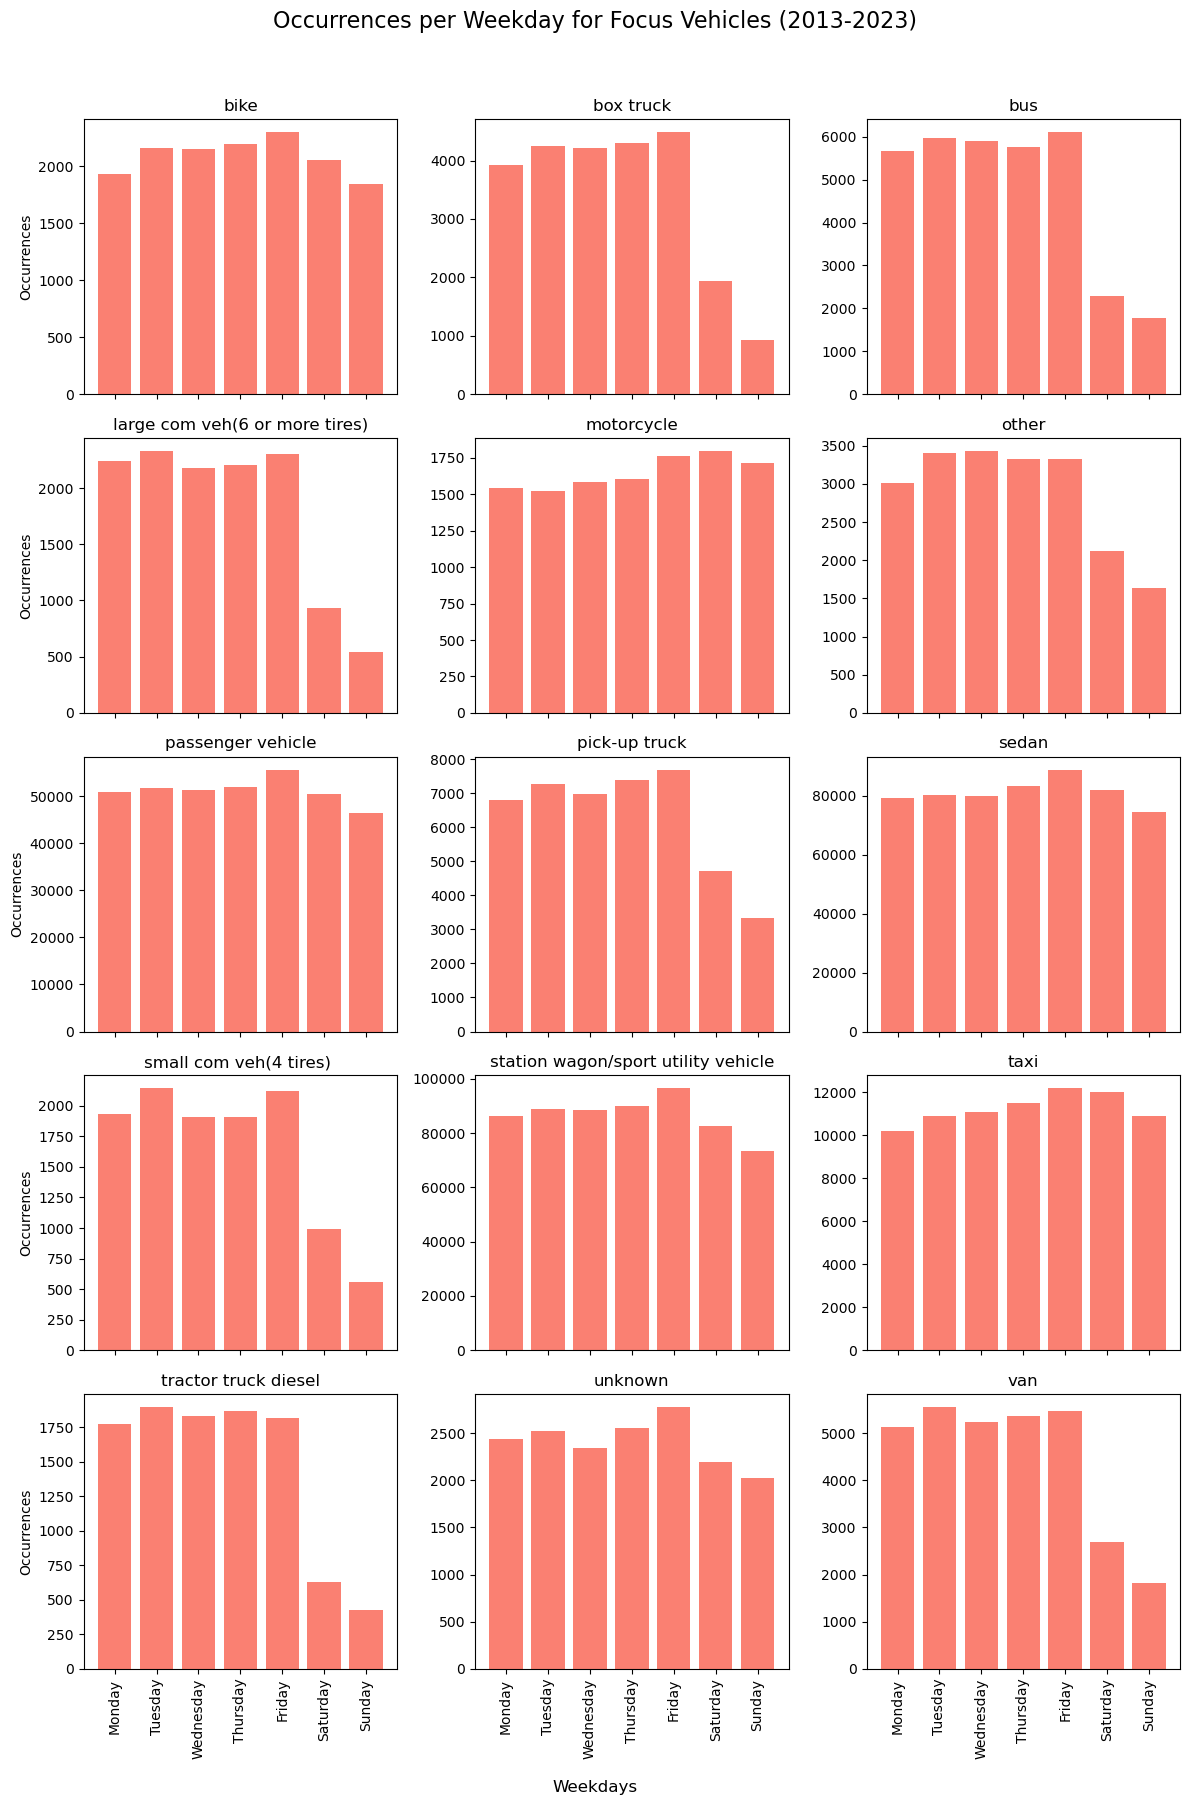
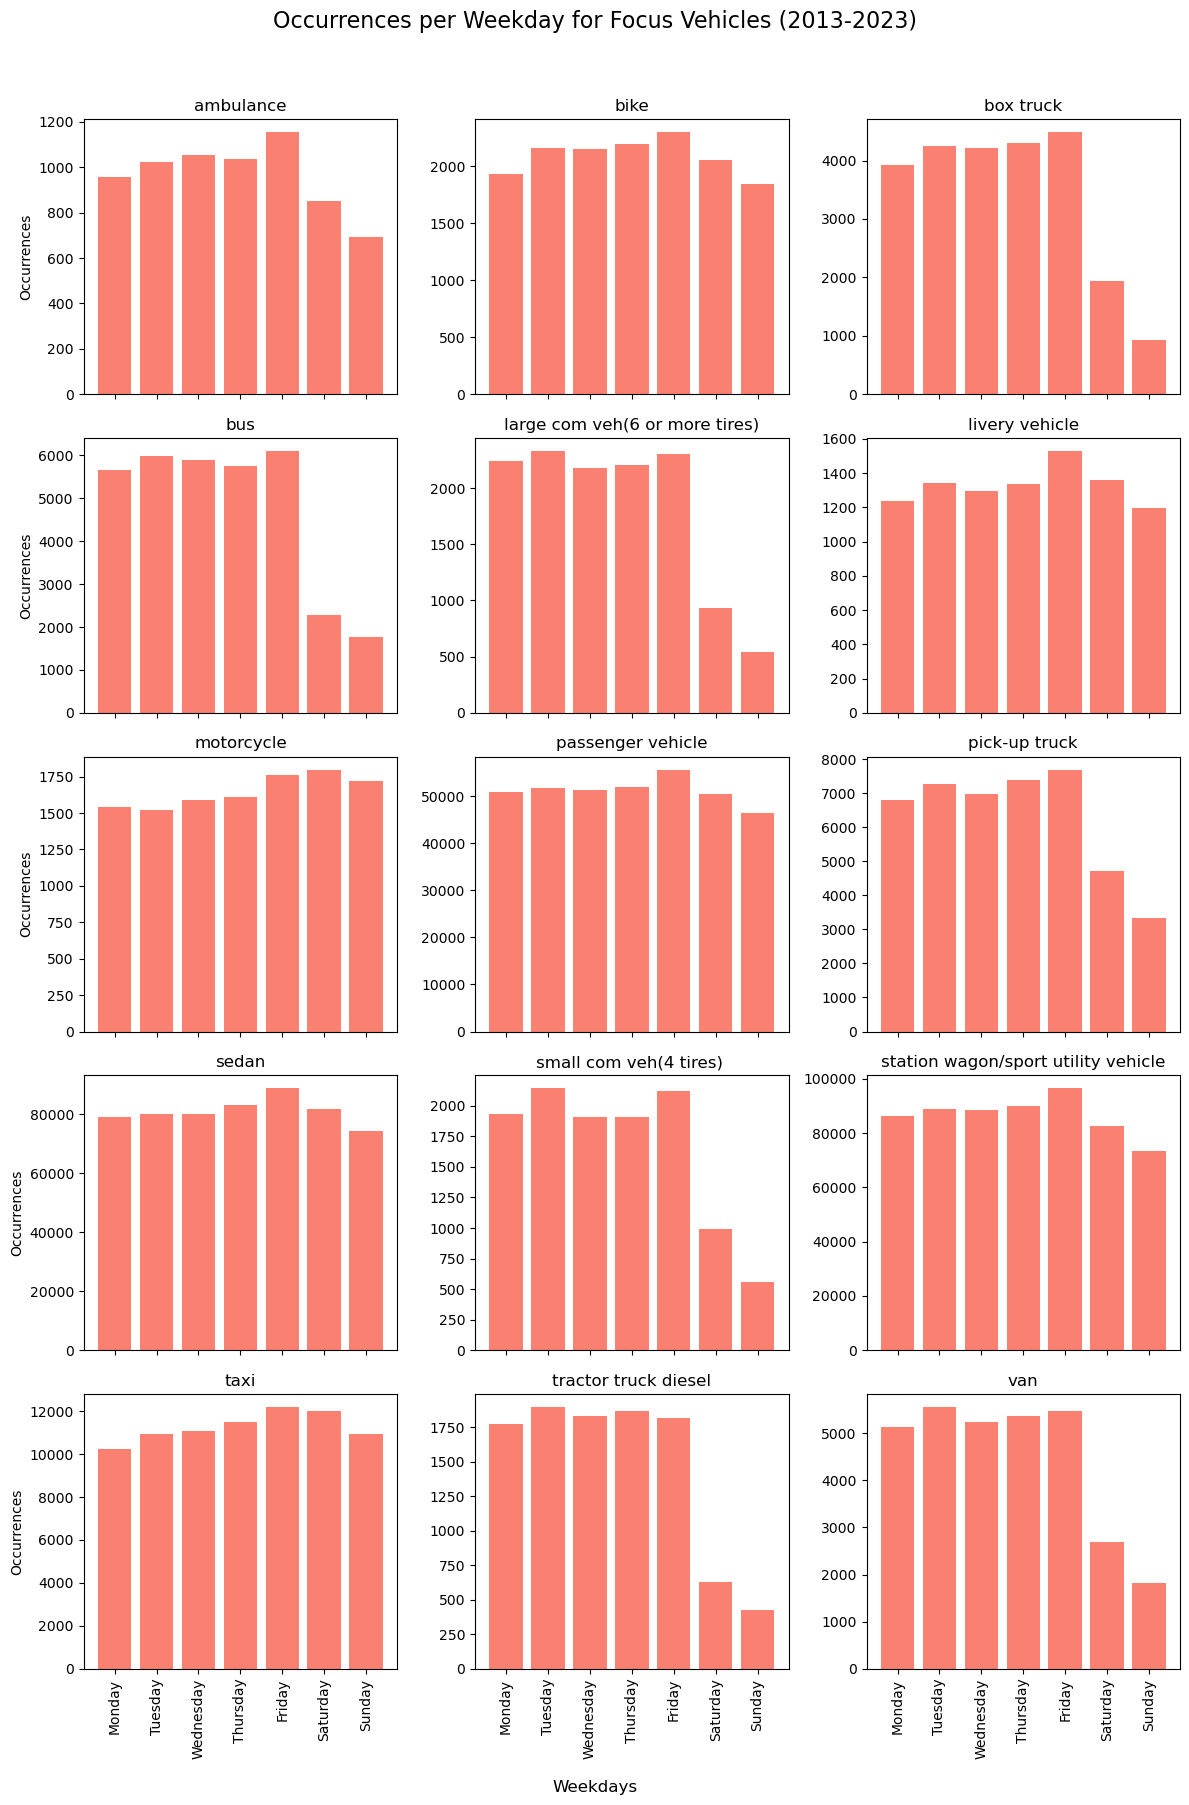
woopy

diff --git a/Final_Project/focus_vehicles.py b/Final_Project/focus_vehicles.py
@@ -4,10 +4,12 @@ from Exploratory import *
 
 # %%#%%Car type counts:
 df.loc[df['VEHICLE TYPE CODE 1'] == 'sport utility / station wagon', 'VEHICLE TYPE CODE 1'] = 'station wagon/sport utility vehicle'
-focus_vehicles = df['VEHICLE TYPE CODE 1'].value_counts().head(16).index
+focus_vehicles = df['VEHICLE TYPE CODE 1'].value_counts().head(18).index
 focus_vehicles = focus_vehicles[focus_vehicles != '4 dr sedan']
+focus_vehicles = focus_vehicles[focus_vehicles != 'other']
+focus_vehicles = focus_vehicles[focus_vehicles != 'unknown']
 df = df[df['VEHICLE TYPE CODE 1'].isin(focus_vehicles)]
-counts_vehicle = df['VEHICLE TYPE CODE 1'].value_counts().head(16)
+counts_vehicle = df['VEHICLE TYPE CODE 1'].value_counts()
 
 #%%Cartype counts
 plt.figure(figsize=(10, 6))

diff --git a/Contributing_factor.md b/Contributing_factor.md
@@ -43,7 +43,7 @@ Summing up it seems that nothing seems to any surprise in the data as all of the
 
 <figure>
   <img src="/Final_Project/Figures/crashfactors per hour.png" alt="Description of Image" style="width:100%; height:auto;">
-  <figcaption><i style="font-size: smaller;">Figure 2: Contributing factors plottet for each hour of the day.</i></figcaption>
+  <figcaption><i style="font-size: smaller;">Figure 2: Contributing factors plotted for each hour of the day.</i></figcaption>
 </figure>
 
 
